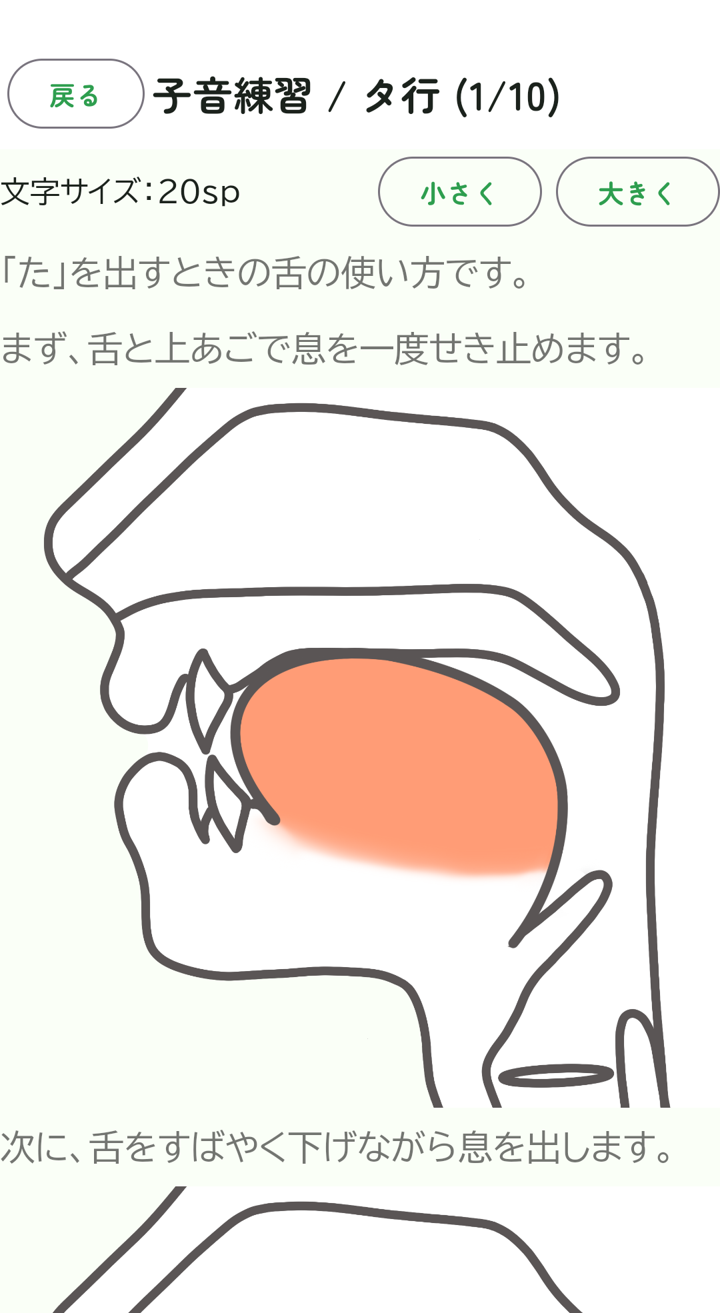
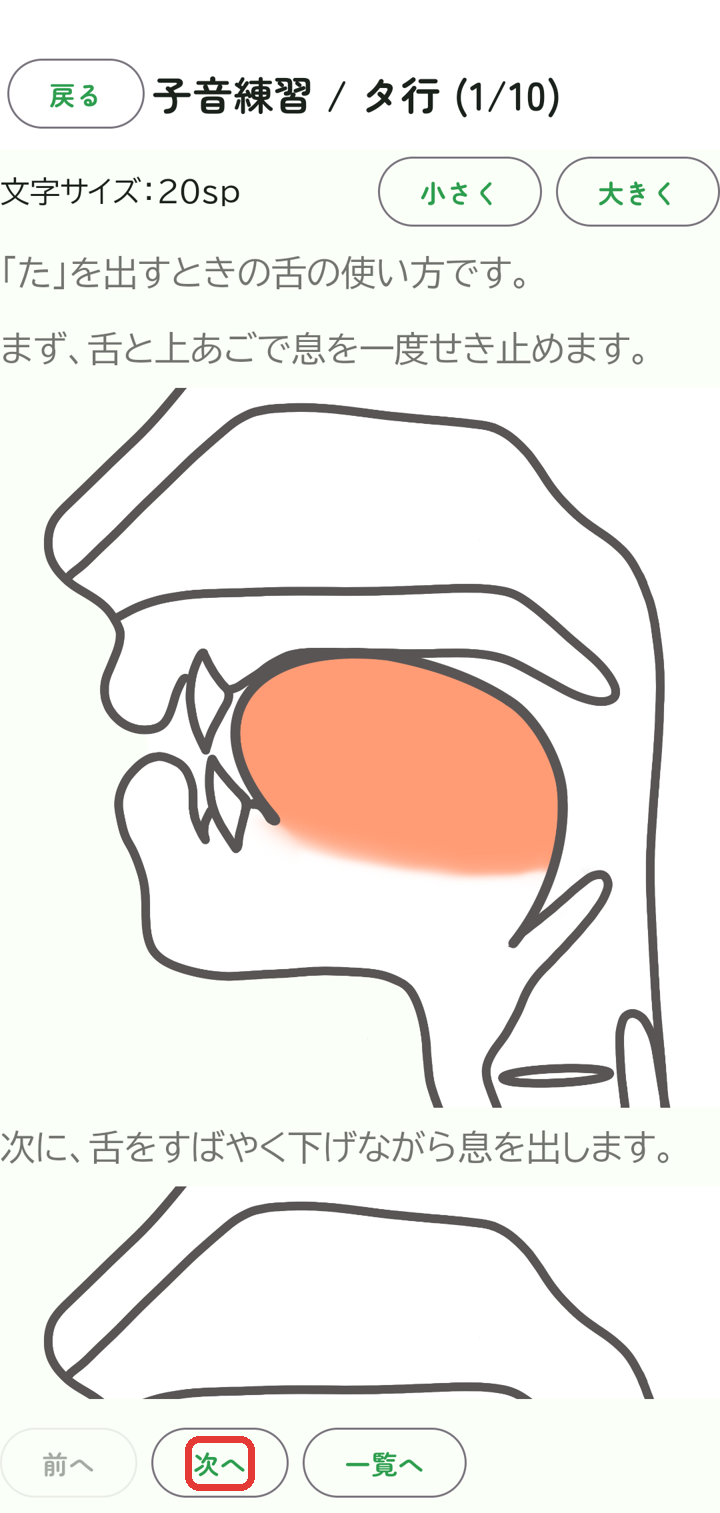
Tutorial redesign: one-step-per-screen walkthrough with progress bar, red-highlight screenshots, first-launch invite; remove parenthetical labels

diff --git a/app/page.tsx b/app/page.tsx
@@ -505,7 +505,7 @@ function Dashboard({ userName, log, sessions, clarityLog, onGo, onPraise }: {
       </div>
       <div className="home-links">
         <button className="link-with-frog" onClick={() => onGo("tutorial")}>
-          <img src={frogUrl("frog_praise_1")} alt="" />使い方（チュートリアル）を見る
+          <img src={frogUrl("frog_praise_1")} alt="" />使い方を見る
         </button>
         <button className="link-with-frog" onClick={onPraise}>
           <img src={frogUrl("frog_praise_1")} alt="" />カエルさんに「お疲れ様」って言ってもらう
@@ -1708,58 +1708,40 @@ function SettingsView({ userName, onRename }: { userName: string; onRename: (nam
 }
 
 function TutorialView() {
-  const sections: { title: string; lines: string[]; steps?: { step: string; caption: string; img: string | null }[] }[] = [
-    { title: "1．ホーム画面について", lines: [
-      "ホームには「発音」「食事」「カレンダー／ログ」「設定」の4つのボタンがあります。",
-      "やりたいことを選んで、その中のメニューをクリック（タップ）してください。",
-    ]},
-    { title: "2．発音の使い方（画像付きの手順）", lines: [], steps: [
-      { step: "①", caption: "ホームの「発音」を開きます。", img: "tut_home" },
-      { step: "②", caption: "メニューから「発音練習」を開きます。", img: "tut_speech_menu" },
-      { step: "③", caption: "大項目（例：子音練習）を選びます。", img: "tut_practice_cat" },
-      { step: "④", caption: "中項目（例：タ行）を選びます。", img: "tut_practice_group" },
-      { step: "⑤", caption: "小項目（例：「た」の出し方）を選びます。", img: "tut_practice_items" },
-      { step: "⑥", caption: "説明と絵・動画を見て練習します。「次へ」で次の項目へ、「一覧へ」で終わりです（カエルが褒めてくれます）。「小さく／大きく」で文字サイズを変えられます。", img: "tut_practice_detail" },
-      { step: "⑦", caption: "【単語明瞭度テスト】小項目の最後にある「〇行のテスト」→「テストを始める」で、表示されたことばを読み上げます（10問）。結果はカレンダー／ログに残ります。", img: "tut_wordtest" },
-      { step: "⑧", caption: "【発音の判定】メニューの「発音の判定」→「判定をはじめる」で、25音を1音ずつ読み上げます。音声認識はChromeまたはEdgeでお使いください。", img: "tut_assessment" },
-      { step: "その他", caption: "【課題提出】5つの課題を録音して、まとめて共有（ダウンロード＋メール）します。【F2・tVSA音響評価】母音を3秒ずつ発声してフォルマントを測ります（簡易な推定値です）。", img: null },
-    ]},
-    { title: "3．食事の使い方", lines: [
-      "【嚥下調整食のガイダンス】学会分類2021のコードごとの説明を見られます。",
-      "【嚥下調整食レシピ】コード別の参考レシピ集です。",
-      "【食事記録】食事の内容と摂取率を記録します（カロリー等はご自身で入力する参考値です）。Androidアプリ版には写真のAI解析がありますが、これはアルファ版で誤差があります。",
-      "【筋肉量推定】Androidアプリ版の機能です。ふくらはぎの写真から周囲長を推定しますが、アルファ版で誤差が大きいことがあります。",
-    ]},
-    { title: "4．カレンダー／ログの使い方", lines: [
-      "練習した日はカレンダーにカエルのスタンプが押されます。",
-      "発音の判定や単語テストの結果（日付と点数）、食事の日別まとめもここで確認できます。",
-    ]},
-    { title: "5．データについて", lines: [
-      "記録はこの端末（ブラウザ）の中にだけ保存されます。サーバーへ自動送信しません。",
-      "「設定」からお名前の変更と、データの一括削除ができます。",
-    ]},
-  ];
+  const pages = useMemo(() => ([
+    { headline: "このアプリでできること", body: "「発音」の練習と判定、「食事」の記録、「カレンダー／ログ」で記録の確認ができます。\n\nはじめに大事なお知らせがあります。次へ進んでください。", img: "tut_home" },
+    { headline: "【大切なお知らせ】食事の管理機能はアルファ版です", body: "食事入力のAI解析・カロリーやタンパク質の自動推定、筋肉量測定などはアルファ版（試験版）で、十分な精度はありません。参考値としてご利用ください。\n\n正確な評価は、かかりつけ医・言語聴覚士・管理栄養士等の専門職にご相談ください。", img: null, notice: true },
+    { headline: "① ホームの「発音」を開く", body: "練習をするときは、まず緑の「発音」ボタンを押します。", img: "tut_home" },
+    { headline: "② 「発音練習」を選ぶ", body: "メニューが表示されます。「発音練習」を押します。", img: "tut_speech_menu" },
+    { headline: "③ 大項目を選ぶ", body: "練習の種類（大項目）を選びます。例では「子音練習」を選びます。", img: "tut_practice_cat" },
+    { headline: "④ 中項目を選ぶ", body: "練習したい音の行（中項目）を選びます。例では「タ行」を選びます。", img: "tut_practice_group" },
+    { headline: "⑤ 小項目を選ぶ", body: "具体的な練習（小項目）を選びます。例では「た」の出し方を選びます。", img: "tut_practice_items" },
+    { headline: "⑥ 見て、まねして、練習", body: "説明と絵・動画を見て練習します。\n・「次へ」で次の項目へ\n・「一覧へ」で終わり（カエルが褒めてくれます）\n・「小さく／大きく」で文字サイズを変えられます\n・音が出る項目では録音もできます", img: "tut_practice_detail" },
+    { headline: "⑦ 単語明瞭度テスト", body: "小項目の最後にある「〇行のテスト」を開き、「テストを始める」を押します。表示されたことばを読み上げると、10問の正答数が判定されます。結果はカレンダー／ログに残ります。", img: "tut_wordtest" },
+    { headline: "⑧ 発音の判定（25音）", body: "メニューの「発音の判定」→「判定をはじめる」で、25音を1音ずつ読み上げて聞こえ方を確認します。音声認識はChromeまたはEdgeでお使いください。", img: "tut_assessment" },
+    { headline: "その他の機能", body: "【課題提出】5つの課題を録音して共有します。\n【F2・tVSA音響評価】母音を発声してフォルマントを測ります（推定値）。\n【食事】ガイダンス・レシピ・食事記録（アルファ版）。\n【カレンダー／ログ】練習した日にカエルのスタンプが押されます。\n【設定】お名前の変更・データ削除。\n\nいつでもホームの「使い方」から、この説明をもう一度見られます。", img: null },
+  ]), []);
+  const [page, setPage] = useState(0);
+  const total = pages.length;
+  const current = pages[page];
   return (
     <section className="view">
-      <div className="page-header"><div><div className="eyebrow">HOW TO USE</div><h1>使い方（チュートリアル）</h1><p>このアプリの使い方の説明です。</p></div></div>
-      <div className="notice alpha-notice">
-        <b>【大切なお知らせ】</b>食事の管理機能（食事入力のAI解析・カロリーやタンパク質の自動推定、筋肉量測定など）は<b>アルファ版（試験版）</b>です。十分な精度があるわけではないため、あくまで参考値としてご利用ください。正確な評価・食事の判断は、かかりつけ医・言語聴覚士・管理栄養士等の専門職にご相談ください。
+      <div className="page-header"><div><div className="eyebrow">HOW TO USE</div><h1>使い方</h1><p>画面の写真を見ながら、使い方を確認できます。</p></div></div>
+      <div className="walk-progress">
+        <span>{page + 1} / {total}</span>
+        <i><em style={{ width: `${((page + 1) / total) * 100}%` }} /></i>
       </div>
-      <div className="guide-list tutorial-list">
-        {sections.map((sec) => (
-          <article className="guide-card" key={sec.title}>
-            <div className="guide-head"><h2>{sec.title}</h2></div>
-            {sec.lines.map((line, i) => <p key={i}>・{line}</p>)}
-            {sec.steps?.map((st) => (
-              <div className="tut-step" key={st.step}>
-                <p className="tut-caption">{st.step} {st.caption}</p>
-                {st.img && <img className="tut-img" src={assetUrl(`tutorial/${st.img}.png`)} alt={st.caption} loading="lazy" />}
-              </div>
-            ))}
-          </article>
-        ))}
+      <article className={`walk-card${current.notice ? " notice-card" : ""}`}>
+        <h2>{current.headline}</h2>
+        <p>{current.body}</p>
+        {current.img && <img className="tut-img" src={assetUrl(`tutorial/${current.img}.png`)} alt={current.headline} />}
+      </article>
+      <div className="walk-nav">
+        <button className="button ghost" disabled={page === 0} onClick={() => setPage(page - 1)}>← 前へ</button>
+        {page < total - 1
+          ? <button className="button primary" onClick={() => setPage(page + 1)}>次へ →</button>
+          : <button className="button primary" onClick={() => setPage(0)}>最初に戻る</button>}
       </div>
-      <p className="tiny-note">※このアプリの判定・測定値は、いずれも学習と経過の目安であり、医療上の診断ではありません。</p>
     </section>
   );
 }
@@ -1824,7 +1806,10 @@ export default function Home() {
 
   function confirmName() {
     const name = draftName.trim(); if (!name) return; localStorage.setItem("articulation:user", name); setUserName(name);
+    if (!localStorage.getItem("articulation:tutorial_prompted")) setShowTutorialInvite(true);
   }
+
+  const [showTutorialInvite, setShowTutorialInvite] = useState(false);
 
   const title = useMemo(() => navItems.find((item) => item.id === view)?.label || "ホーム", [view]);
   if (!ready) return <main className="loading-screen">発音練習・食事の自己管理を準備しています…</main>;
@@ -1854,6 +1839,26 @@ export default function Home() {
       </main>
       <nav className="bottom-nav">{navItems.slice(0, 5).map((item) => <button className={view === item.id ? "active" : ""} onClick={() => setView(item.id)} key={item.id}><NavIcon name={item.id} /><small>{item.label}</small></button>)}</nav>
       <PraisePopup show={praise} onClose={() => setPraise(false)} />
+      {showTutorialInvite && (
+        <div className="onboarding-backdrop">
+          <div className="onboarding tutorial-invite">
+            <img src={assetUrl("frogs/frog_mascot.png")} alt="" />
+            <h1>使い方を見ますか？</h1>
+            <p>はじめてご利用の方のために、画面の写真付きで使い方を説明します。（約11ページ・いつでも中断できます）</p>
+            <div className="tutorial-invite-buttons">
+              <button className="button primary" onClick={() => {
+                localStorage.setItem("articulation:tutorial_prompted", "1");
+                setShowTutorialInvite(false);
+                setView("tutorial");
+              }}>見る</button>
+              <button className="button ghost" onClick={() => {
+                localStorage.setItem("articulation:tutorial_prompted", "1");
+                setShowTutorialInvite(false);
+              }}>今は見ない</button>
+            </div>
+          </div>
+        </div>
+      )}
       {!userName && <div className="onboarding-backdrop"><div className="onboarding"><img src={assetUrl("app-icon.png")} alt="発音練習・食事の自己管理" /><h1>発音練習・食事の自己管理</h1><p>記録をこの端末に保存するため、最初にお名前を設定してください。</p><label>お名前またはニックネーム<input autoFocus value={draftName} onChange={(event) => setDraftName(event.target.value)} onKeyDown={(event) => event.key === "Enter" && confirmName()} placeholder="例：はしだ" /></label><button className="button primary" onClick={confirmName} disabled={!draftName.trim()}>はじめる</button><small>入力した名前はこの端末内だけに保存されます。</small></div></div>}
     </div>
   );

diff --git a/app/globals.css b/app/globals.css
@@ -357,3 +357,19 @@ h1, h2, h3, b, strong, button, .button, .eyebrow, .lesson-title, .chip, .sidebar
 .tut-step { margin-top: 14px; display: grid; gap: 8px; }
 .tut-caption { font-size: 13px; line-height: 1.8; margin: 0; font-weight: 700; }
 .tut-img { width: 100%; max-width: 560px; border-radius: 12px; border: 1px solid var(--line); display: block; }
+
+/* 1画面1ステップのウォークスルー */
+.walk-progress { display: flex; align-items: center; gap: 14px; margin: 22px 0 14px; }
+.walk-progress > span { font-size: 13px; font-weight: 700; color: var(--muted); white-space: nowrap; }
+.walk-progress i { flex: 1; height: 6px; background: var(--paper-deep); border-radius: 9px; overflow: hidden; }
+.walk-progress em { display: block; height: 100%; background: var(--teal); transition: width .3s ease; }
+.walk-card { background: var(--white); border: 1px solid var(--line); border-radius: 18px; padding: 26px; }
+.walk-card h2 { margin: 0 0 12px; font-size: 22px; }
+.walk-card p { white-space: pre-line; line-height: 2; font-size: 15px; margin: 0; }
+.walk-card .tut-img { margin-top: 18px; }
+.walk-card.notice-card { background: #FFF3E0; border-color: #E65100; }
+.walk-card.notice-card h2 { color: #B33F00; }
+.walk-nav { display: flex; gap: 12px; justify-content: flex-end; margin-top: 18px; }
+.tutorial-invite img { width: 90px; height: 90px; object-fit: contain; margin-bottom: 12px; }
+.tutorial-invite-buttons { display: flex; gap: 10px; margin-top: 16px; }
+.tutorial-invite-buttons .button { flex: 1; }
